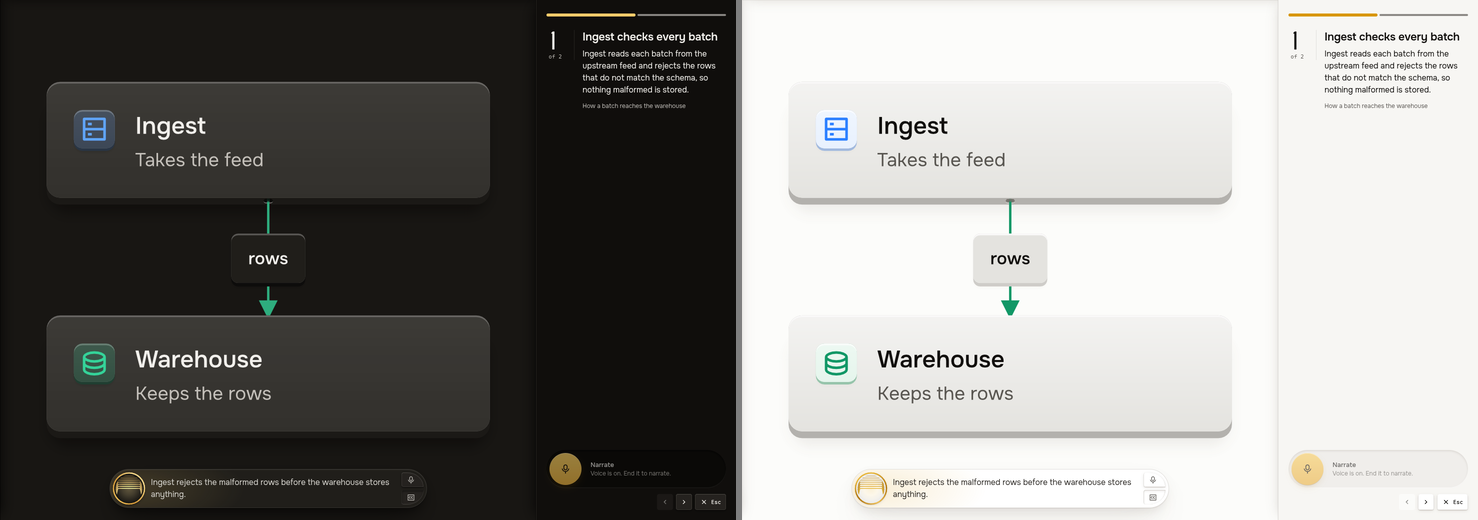
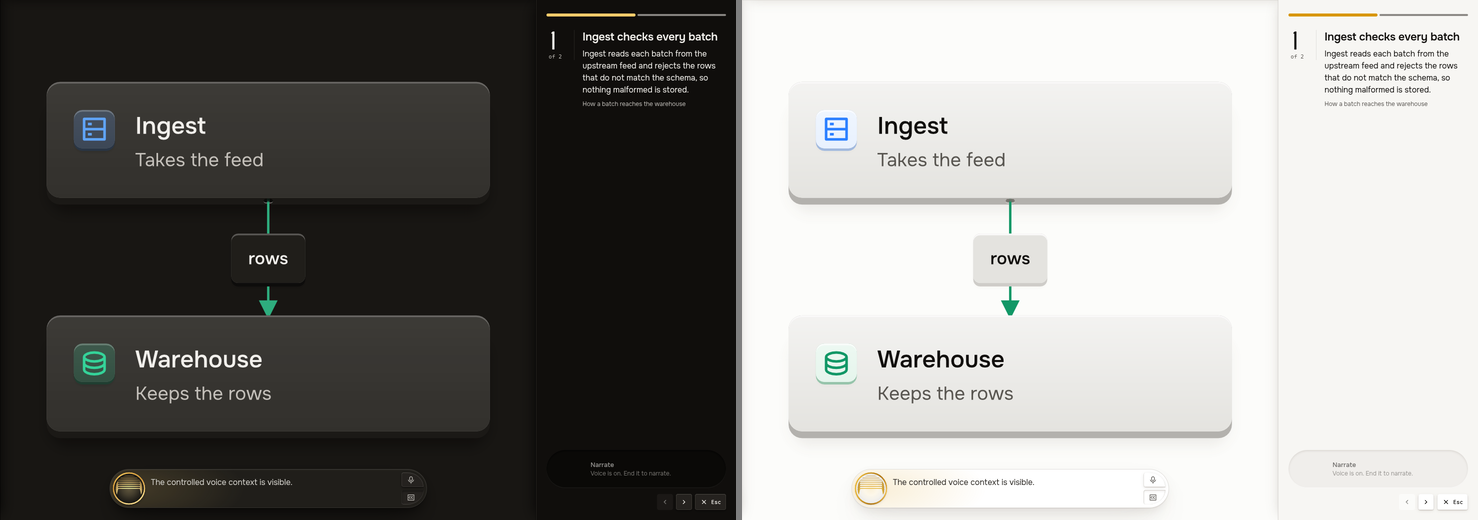
docs(design): the Narrate key's gold circle is a home of the voice orb
DESIGN.md, its sidecar and the shell's design doc say how the orb waits in
the key, launches from it and comes home to it. The walkthrough capture
shows the key's empty seat while the orb is in the voice box.

Refs: TASK-590.09

diff --git a/DESIGN.md b/DESIGN.md
@@ -428,7 +428,7 @@ along the line on both grounds.
 
 ### Named Rules
 
-**The Still Shadow Rule.** A shadow over the picture is a static box-shadow, and a panel's shadow never changes while the panel moves. No shell layer over the picture viewport uses backdrop-filter, filter or blur, and nothing there loops except the voice orb in the voice box, which is drawn on a canvas of its own and only while voice is on, and the warm wash the box takes from the orb's light, which is a layer of the box and never of the picture. A tip, a menu, the floating sidebar, a presented walkthrough's column or the voice box may ease its own layer's transform and opacity, once, and each word of a subtitle may ease its own opacity, once. A select or a menu takes 160ms to arrive and 110ms to leave. The floating sidebar takes at most 160ms, the column 220ms to arrive and 520ms to hand one step to the next, with the wake on its rail settling by about 700ms, and the voice box 360ms to arrive and 240ms to leave. A box that is wanted again while it leaves turns round from where it is. The orb itself crosses the page when subtitles are turned on or off, in a layer of its own, over 680ms.
+**The Still Shadow Rule.** A shadow over the picture is a static box-shadow, and a panel's shadow never changes while the panel moves. No shell layer over the picture viewport uses backdrop-filter, filter or blur, and nothing there loops except the voice orb in the voice box, which is drawn on a canvas of its own and only while voice is on, and the warm wash the box takes from the orb's light, which is a layer of the box and never of the picture. A tip, a menu, the floating sidebar, a presented walkthrough's column or the voice box may ease its own layer's transform and opacity, once, and each word of a subtitle may ease its own opacity, once. A select or a menu takes 160ms to arrive and 110ms to leave. The floating sidebar takes at most 160ms, the column 220ms to arrive and 520ms to hand one step to the next, with the wake on its rail settling by about 700ms, and the voice box 360ms to arrive and 240ms to leave. A box that is wanted again while it leaves turns round from where it is. The orb itself crosses the page when subtitles are turned on or off, when Narrate is pressed and when a voice ends in the box, in a layer of its own, over 680ms.
 
 **The Cursor Says What a Press Does Rule.** Whatever answers a click shows a pointer, in the shell and on the picture. A frame's floor is canvas, so it shows the arrow. Holding Space over the canvas shows an open hand, a press closes it, and a press with Space picks nothing.
 
@@ -790,11 +790,15 @@ short and never wraps.
 The key that narrates the walkthrough stands at the foot of the column, as wide as the column.
 It is a pill, 76px high and round at both ends, a well sunk into the column (the well shadow, on
 the Well Floor). It is there for as long as the shell has a voice to offer. At its start is a
-circle in the gold finish of the primary action, with a microphone in it. The circle lifts 1px
-when the key is hovered and sinks 1px when it is pressed, as the gold button does. Then come
-"Narrate" and a line of muted ink that says what it does. While a narration cannot start, as
-while a voice is on, the key is dimmed and never taken out, and the line says why. The voice
-itself is not in the column: the voice box stays low over the picture (Voice box, below).
+circle in the gold finish of the primary action, with a microphone in it. The circle is a home
+of the voice orb (Voice box, below). While voice is off the dark orb waits in it, and the gold
+circle is drawn only while the orb is there. The circle lifts 1px when the key is hovered and
+sinks 1px when it is pressed, as the gold button does. Then come "Narrate" and a line of muted
+ink that says what it does. Pressing the key sends the orb out of the circle into the voice box
+over the picture. While the orb is away, the key keeps the round room it had, and the room is
+empty. While a narration cannot start, as while a voice is on, the key's words are dimmed and
+the line says why. The key is never taken out. The voice itself is not in the column: the voice
+box stays low over the picture.
 
 Under the key on the right stand the column's three keys. They are quiet keys, 32px high:
 previous, next, and leave, which says Esc. A key with nowhere to go is dimmed, as previous is on
@@ -855,18 +859,26 @@ before it fades in, and leaves as fast as they return. Only opacity moves.
 
 The orb is one canvas, so it keeps its light and the last second of the voice it
 has drawn wherever it is, and it is one shared element: the orb and its plate are one
-object, and there is only ever one of it on the page. It rests in the dock's circle or in
-the box's socket, and when the person turns subtitles off or on it lifts off from where it
-was seen, crosses the page in a layer of its own, a little larger at the top of its flight,
-and settles in the circle or the socket in 680ms. The box has no seat of its own and the
-dock's is drawn only while the orb is in it, so nothing that looks like the orb waits where
+object, and there is only ever one of it on the page. It rests in the dock's circle, in
+the box's socket, or in the gold circle of a presented walkthrough's Narrate key. When the
+person turns subtitles off or on it lifts off from where it was seen, crosses the page in a
+layer of its own, a little larger at the top of its flight, and settles in the circle or the
+socket in 680ms. The box has no seat of its own. The dock's seat and the Narrate key's gold
+circle are drawn only while the orb is in them, so nothing that looks like the orb waits where
 it left or where it will land. A flight carries an orb that can be seen. When voice starts
 the orb is dark, so it is lit where it is wanted: with subtitles on it fades in inside the
-box as the box rises, and it does not come out of the Talk key. When voice ends it fades
-where it is, with the box. The dock's key grows out of the seat the orb has left as the
-orb flies out, and the circle forms as the orb arrives, and the box rises and fades in as
-the orb is on its way. A flight meets its socket where the socket is, so a socket that is
-still moving is met, and the opposite choice turns a flight round from where the orb is.
+box as the box rises, and it does not come out of the Talk key. Narrate is the one exception.
+While voice is off and a Narrate key is on the page, the dark orb waits in the key's gold
+circle. Pressing Narrate lights the orb at the start of its flight: it fades in over the gold
+circle as the circle goes, and it flies to the box, or to the dock while subtitles are off.
+When voice ends the orb fades where it is, with the box. Once it is out of sight it waits in
+a Narrate key, when one is on the page. A voice that ends in the box while a Narrate key is on
+the page sends the orb home instead. It flies out of the box while the box is still up, lands
+in the key's circle and fades there, so the gold circle and its microphone come back. The
+dock's key grows out of the seat the orb has left as the orb flies out, and the circle forms as
+the orb arrives, and the box rises and fades in as the orb is on its way. A flight meets its
+socket where the socket is, so a socket that is still moving is met, and the opposite choice
+turns a flight round from where the orb is.
 While a walkthrough is presented the voice box stays where it is, low over the picture and in
 the middle of it, because the steps stand in the column beside the picture. A fullscreen
 presentation has no dock to take the voice back, so the box carries the voice there whatever
@@ -875,8 +887,9 @@ the box says what the voice is doing in a word. The presentation's bar holds one
 which reads End voice while the voice is live. A recording has no dock either. It draws the
 voice box over its picture, as a presented pane does, from the first frame that shows the
 walkthrough. The orb is in its socket from that frame and is never flown, and it moves with the
-level of the recorded voice on each frame. With reduced motion the orb is in its home, and the box is
-there or gone, at once.
+level of the recorded voice on each frame. With reduced motion the orb is in its home at once,
+and the box is there or gone at once. When either end of a flight is not on screen, the orb is
+put in its home at once in the same way.
 Keyboard focus follows the subtitles control to the surface that takes it over.
 
 ## Do's and Don'ts

diff --git a/docs/design/operator-canvas-shell.md b/docs/design/operator-canvas-shell.md
@@ -324,10 +324,14 @@ words in the `reading` role, and the name of the walkthrough under those.
 
 The key that narrates the walkthrough stands at the foot of the column, as wide as the column: a
 pill with a gold circle and a microphone in it. The keys, previous, next and leave, stand under
-it on the right. While a voice is on, the key is dimmed and says why. The voice box is not in the
-column: it stays low over the picture, in the middle of it, as it floats while nothing is
-presented. The foot keeps its place whichever step is shown, so nothing in the column moves. A
-fullscreen presentation has no dock. So the voice box carries the voice there, whatever the
+it on the right. The gold circle is a home of the one voice orb (TASK-590.09). While voice is
+off, the dark orb waits in it, and the circle is drawn only while the orb is there. Narrate
+launches the orb out of the circle, lit, into the voice box, or into the dock while subtitles
+are off. While the orb is away, the key keeps an empty seat. A voice that ends in the box sends
+the orb back into the circle, where it fades, and the gold circle comes back. While a voice is
+on, the key is dimmed and says why. The voice box is not in the column: it stays low over the
+picture, in the middle of it, as it floats while nothing is presented. The foot keeps its place
+whichever step is shown, so nothing in the column moves. A fullscreen presentation has no dock. So the voice box carries the voice there, whatever the
 person wants of subtitles, and the bar holds one key that starts and ends voice. DESIGN.md
 describes the column.
 
@@ -335,7 +339,8 @@ describes the column.
 theme](assets/walkthrough-box.png)
 
 Rendered captures at 1920×1080, cropped to the picture and the column. Left, the dark theme
-while the voice speaks. Right, the light theme.
+while the voice speaks. Right, the light theme. The orb is in the voice box, so the Narrate key
+keeps an empty seat.
 
 The camera fits the subjects of the step to the picture beside the column.
 The subjects include the parts at both ends of each relationship
@@ -604,7 +609,9 @@ that they show is now the dock at the foot of the left column.
   and takes the capsule away, and turning them on flies it out again: only one orb
   is ever on the page, and nothing that looks like it waits where it left or where
   it will land. Voice starting lights the orb in the capsule and does not launch it
-  from the Talk key. While a walkthrough is presented the capsule stays over the picture, and in
+  from the Talk key. Narrate is the exception: it launches the orb out of the gold circle of its
+  key, where the dark orb waits, and a voice that ends in the capsule sends the orb back there.
+  While a walkthrough is presented the capsule stays over the picture, and in
   a fullscreen presentation, which has no dock, it stays whatever the person wants of
   subtitles. A recording draws the same voice box over its picture, with an orb that the
   recorded voice moves.
